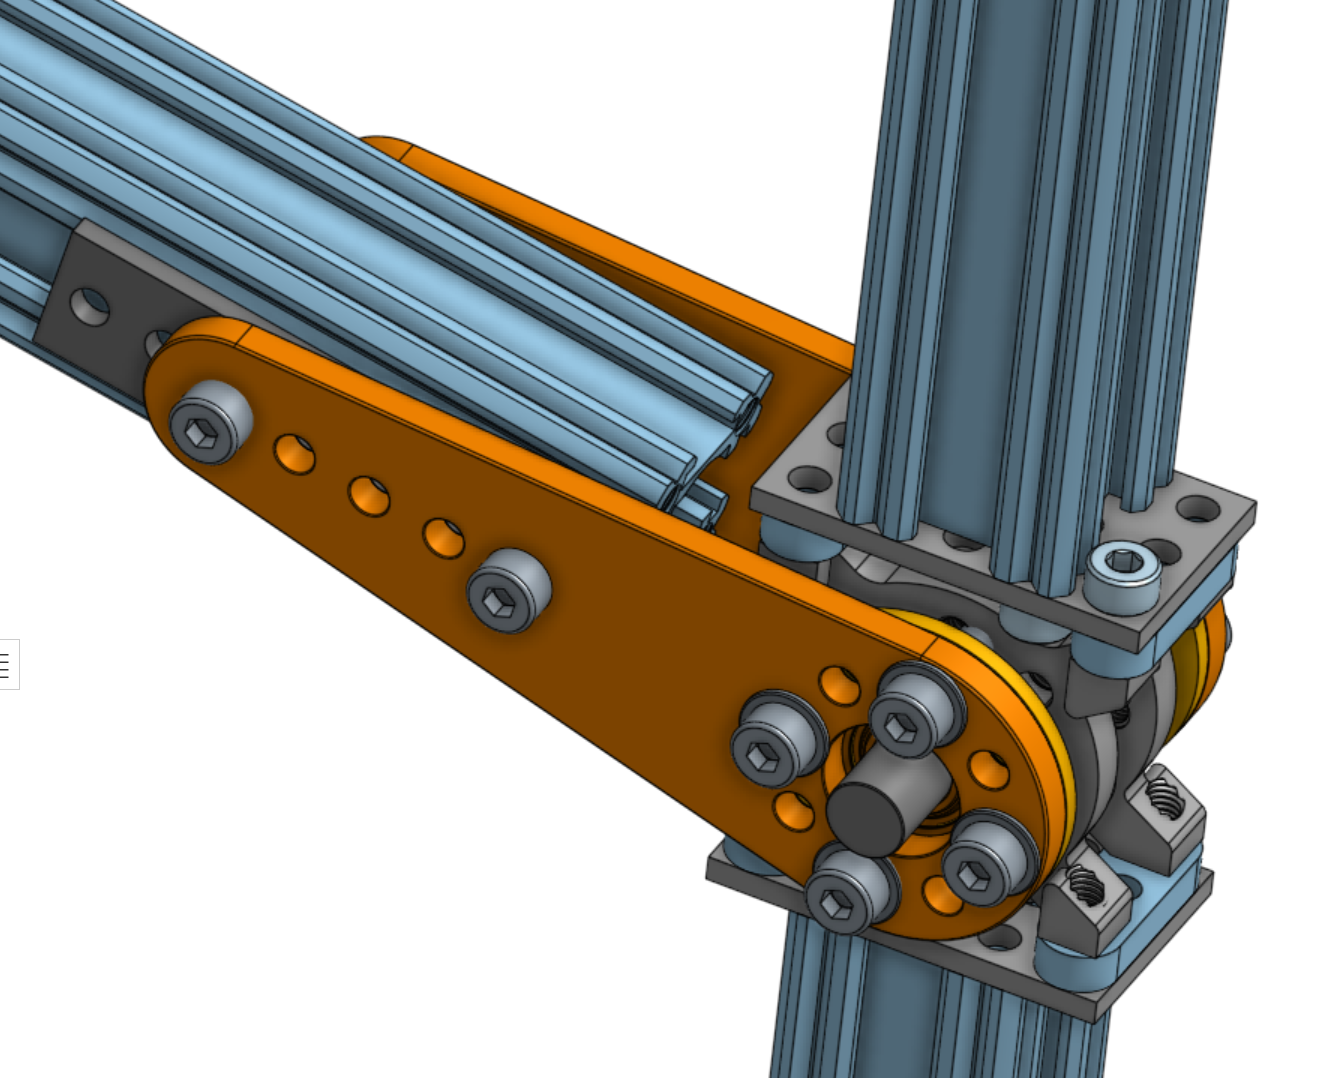
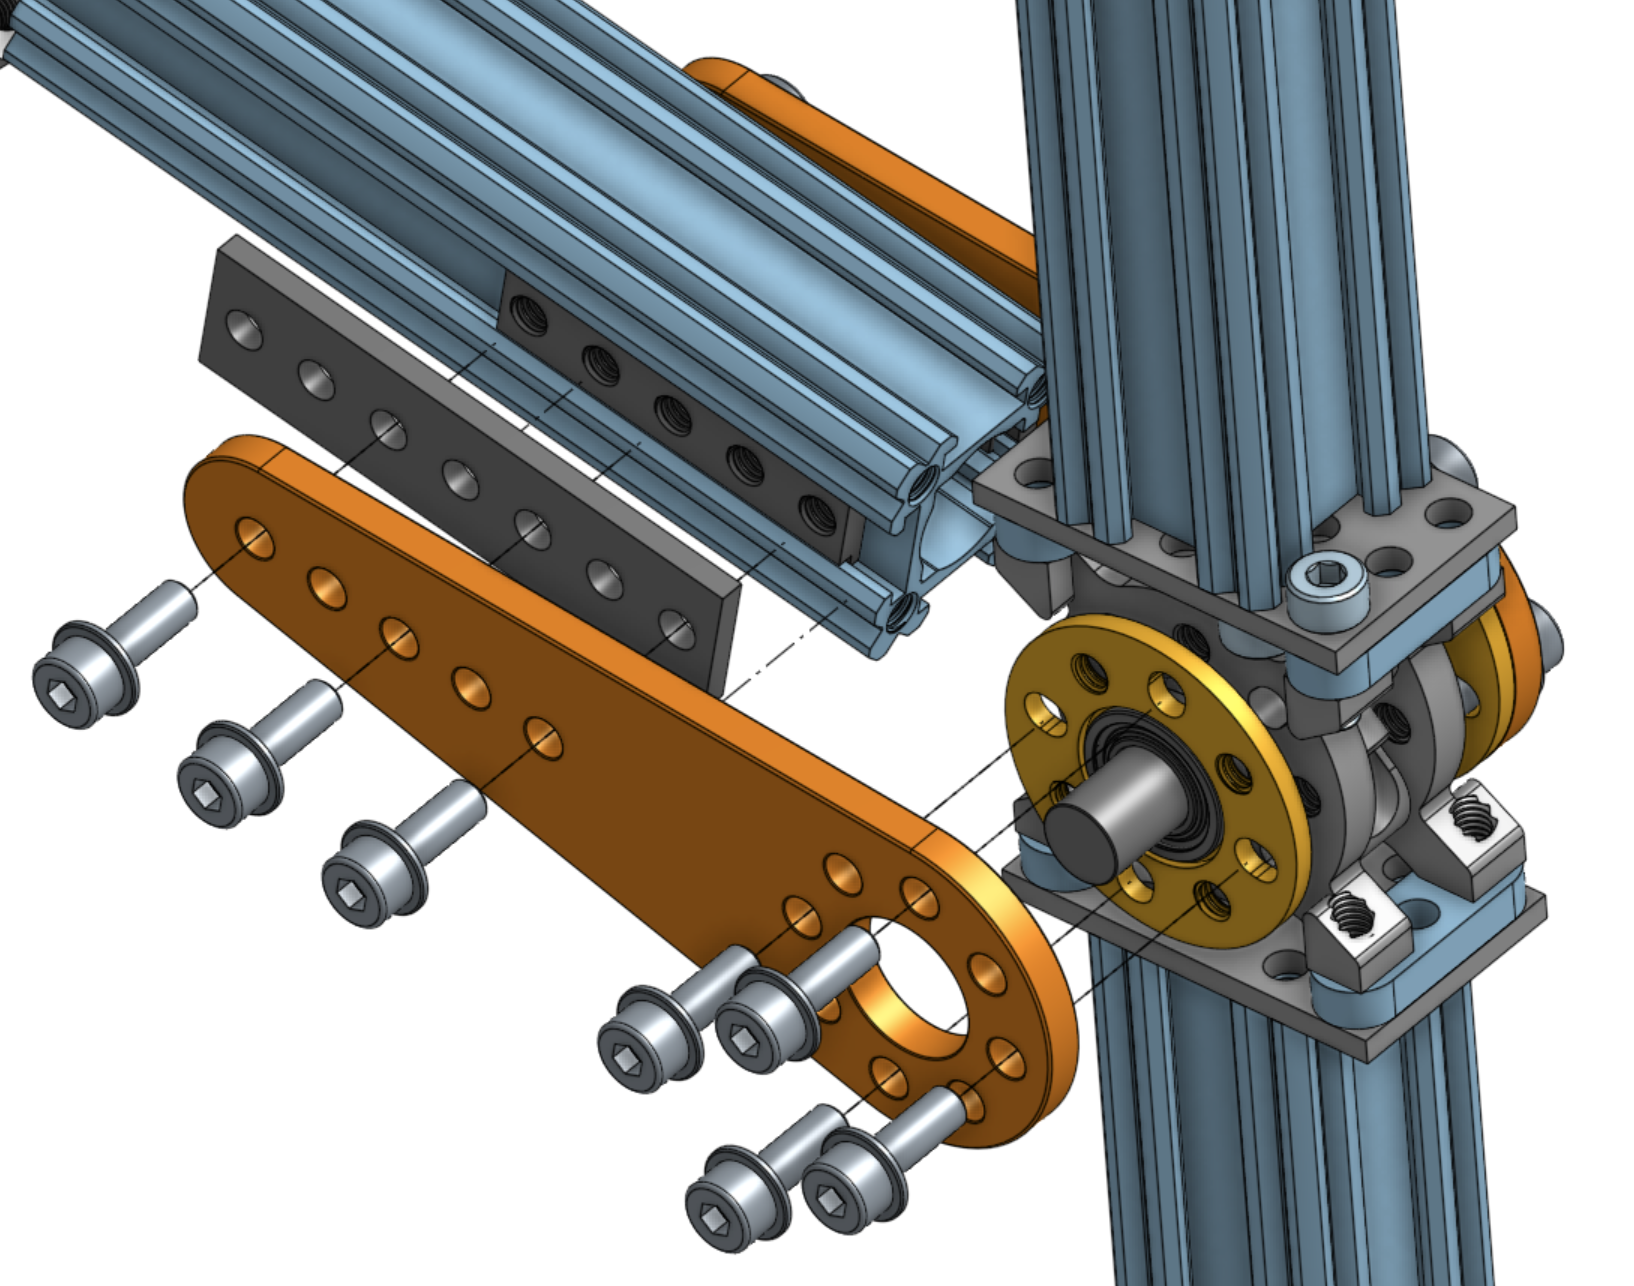
feat: replace hurricane nuts in control arm attachment with goRail nut (#548)
* feat: replace hurricane nuts in control arm attachment with easier goRail nut (5-hole)

* docs: md fix

* docs: fix spelling

---------

diff --git a/mechanical/rocker_bogie/README.md b/mechanical/rocker_bogie/README.md
@@ -94,17 +94,27 @@ Then assemble the servo block to the servo motor. Insert the set screw that came
 
 ### Connect the control arms and rocker to the joint
 
-Take one of the control arms with bearing and hub you made in an earlier step and attach the steel bracket, two hurricane nuts, and 4x socket screws like in the image. 
-
-> **NOTE**: Consider using an extra screw and hurricane nut in the middle to strengthen the joint further
+Take one of the control arms (black plastic piece) with bearing and hub you made in an earlier step and attach the steel bracket, a [goRail Nut (5 Hole)](https://www.gobilda.com/gorail-nut-5-hole-2-pack/), and 7x socket screws with washers like in the image.
 
 ![attaching the shaft from the rocker to the bogie joint](images/rocker_extr_to_bogie_joint.png)
 
-Repeat for the other control arm. If the screws don't slide freely through the holes in the black control arm, drill the holes out to make sure the hurricane nuts rotate and lock in place in the rail.
+> [!NOTE]
+> If you don't have the goRail nut (5 Hole) which was introduced July 2026, use three hurricane nuts instead. See the collapsed section below.
+
+<details>
+
+<summary>Instructions for when you don't have the goRail nuts</summary>
+
+If the screws don't slide freely through the holes in the black control arm, drill the holes out to make sure the hurricane nuts rotate and lock in place in the rail.
 
 ![picture of the control arm assembly](images/control_arm_assembly.jpg)
 
-Connect the short part of the rocker (shaft `1110-0024-00096`) to the control arm on one side such that the hurricane nuts fit all the way in the channel.  Tighten such that you can still slide the control arm relative to the channel.  Make sure the slit faces the underside/back of the rover (you can also point the slit upwards or downwards if you prefer). 
+Unlike the image, use 3 hurricane nuts instead of 2. Connect the short part of the rocker (shaft `1110-0024-00096`) to the control arm on one side such that the hurricane nuts fit all the way in the channel.  Tighten such that you can still slide the control arm relative to the channel.  Make sure the slit faces the underside/back of the rover (you can also point the slit upwards or downwards if you prefer). The hurricane nuts have a tendency to seem stuck without actually getting their small 'wings' locked in the channel. If they're not properly inserted, the assembly will not have the required rigidity.
+
+</details>
+<br />
+
+Repeat for the other control arm.
 
 Route the wiring coming from the front, middle, and rear motors and servos through the slit (see left image below). It helps to temporarily keep the wiring in place with some tape as you attach the shaft to the bogie joint.
 
@@ -112,10 +122,10 @@ Flip the assembly over and repeat on the other side, making sure the setup is sy
 
 | ![wiring for bogie joint](images/wiring_bogiejoint.jpg) | ![wiring for bogie joint](images/wiring_bogiejoint_done.jpg) |
 | --- | --- |
-| Running wiring through short shaft of rocker | Joint installed. | 
+| Running wiring through short shaft of rocker | Joint installed. |
 
-
-> **NOTE**: the OnShape model may represent the orientation of the slits incorrectly. In order to make the model nimble, the same rocker-bogie assembly is used on both sides of the rover which has the side-effect that the two assemblies aren't mirrorred like they are supposed to be. Always stop to think about what you're building to avoid having to take things apart later.
+> [!CAUTION]
+> the OnShape model may represent the orientation of the slits incorrectly. In order to make the model nimble, the same rocker-bogie assembly is used on both sides of the rover which has the side-effect that the two assemblies aren't mirrored like they are supposed to be. Always stop to think about what you're building to avoid having to take things apart later.
 
 ### Assemble the back servo
 

diff --git a/parts_list/screws.md b/parts_list/screws.md
@@ -20,7 +20,7 @@ All of the below are included in the [parts list](README.md). This document is f
 | rocker-bogie | 13  | 8                | socket | rocker-bogie - body-axis       | 2          | 26    |
 | rocker-bogie | 2   | 6 or **8**       | socket | rocker-bogie - diff pivot      | 2          | 4     |
 | rocker-bogie | 8   | 8                | socket | rocker-bogie joint             | 2          | 16    |
-| rocker-bogie | 4   | 10               | socket | rocker-bogie joint             | 2          | 8     |
+| rocker-bogie | 6   | 10               | socket | rocker-bogie joint             | 2          | 12    |
 | rocker-bogie | 4   | 10 or **12**     | socket | diff pivot - rocker-bogie      | 1          | 4     |
 | rocker-bogie | 4   | **20** or 22     | socket | turnbuckles                    | 1          | 4     |
 | rocker-bogie | 2   | 6                | button | diff pivot shaft - bearing     | 1          | 2     |
@@ -44,7 +44,7 @@ Total per category and length:
 | button | [10](https://www.gobilda.com/2802-series-zinc-plated-steel-button-head-screw-m4-x-0-7mm-10mm-length-25-pack/) | 70 (+48)     | 3                     |
 | button | [16](https://www.gobilda.com/2802-series-zinc-plated-steel-button-head-screw-m4-x-0-7mm-16mm-length-25-pack/) | 34           | 2                     |
 | socket | [8](https://www.gobilda.com/2800-series-zinc-plated-steel-socket-head-screw-m4-x-0-7mm-8mm-length-25-pack/)   | 30 (+8)      | 2                     |
-| socket | [10](https://www.gobilda.com/2800-series-zinc-plated-steel-socket-head-screw-m4-x-0-7mm-10mm-length-25-pack/) | 42 (+48)     | 4                     |
+| socket | [10](https://www.gobilda.com/2800-series-zinc-plated-steel-socket-head-screw-m4-x-0-7mm-10mm-length-25-pack/) | 46 (+52)     | 4                     |
 | socket | [12](https://www.gobilda.com/2800-series-zinc-plated-steel-socket-head-screw-m4-x-0-7mm-12mm-length-25-pack/) | 20           | 1                     |
 | socket | [16](https://www.gobilda.com/2800-series-zinc-plated-steel-socket-head-screw-m4-x-0-7mm-16mm-length-25-pack/) | 46 (+8)      | 2                     |
 | socket | [20](https://www.gobilda.com/2800-series-zinc-plated-steel-socket-head-screw-m4-x-0-7mm-20mm-length-25-pack/) | 12           | 1                     |

diff --git a/parts_list/README.md b/parts_list/README.md
@@ -6,7 +6,7 @@ and should consist of the same parts, just presented in a more readable format. 
 to Digikey.com directly to create a shopping cart.
 Before you place an order, please double check that you have all parts in the right quantities.
 
-The total cost comes out to be **$1409.2** without the GoBilda educational discount (15%) and excluding shipping. **note**: GoBilda may change its pricing without notice.
+The total cost comes out to be **$1421.18** without the GoBilda educational discount (15%) and excluding shipping. **note**: GoBilda may change its pricing without notice.
 
 
 
@@ -56,8 +56,9 @@ Cost to build these assemblies: $11.48 * 4 assemblies = $45.92
 | control arm | [Plastic Hub-Mount Control Arm (72mm Length) - goBILDA](https://www.gobilda.com/plastic-hub-mount-control-arm-72mm-length/) | $4.99 | 4 | $19.96 |
 | 8mm ID Spacer (10mm OD, 6mm Length) | [1522 Series 8mm ID Spacer (10mm OD, 6mm Length) - 4 Pack - goBILDA](https://www.gobilda.com/1522-series-8mm-id-spacer-10mm-od-6mm-length-4-pack/) | $3.49 | 1 | $3.49 |
 | 8mm ID Spacer (10mm OD, 4mm Length) | [1522 Series 8mm ID Spacer (10mm OD, 4mm Length) - 4 Pack - goBILDA](https://www.gobilda.com/1522-series-8mm-id-spacer-10mm-od-4mm-length-4-pack/) | $2.99 | 1 | $2.99 |
+| goRAIL® Nut (5 Hole) - 2 Pack | [goRAIL® Nut (5 Hole) - 2 Pack - goBILDA](https://www.gobilda.com/gorail-nut-5-hole-2-pack/) | $5.99 | 2 | $11.98 |
 
-Cost to build these assemblies: $205.92 * 2 assemblies = $411.85
+Cost to build these assemblies: $211.91 * 2 assemblies = $423.83
 
 
 ## Parts for body assembly
